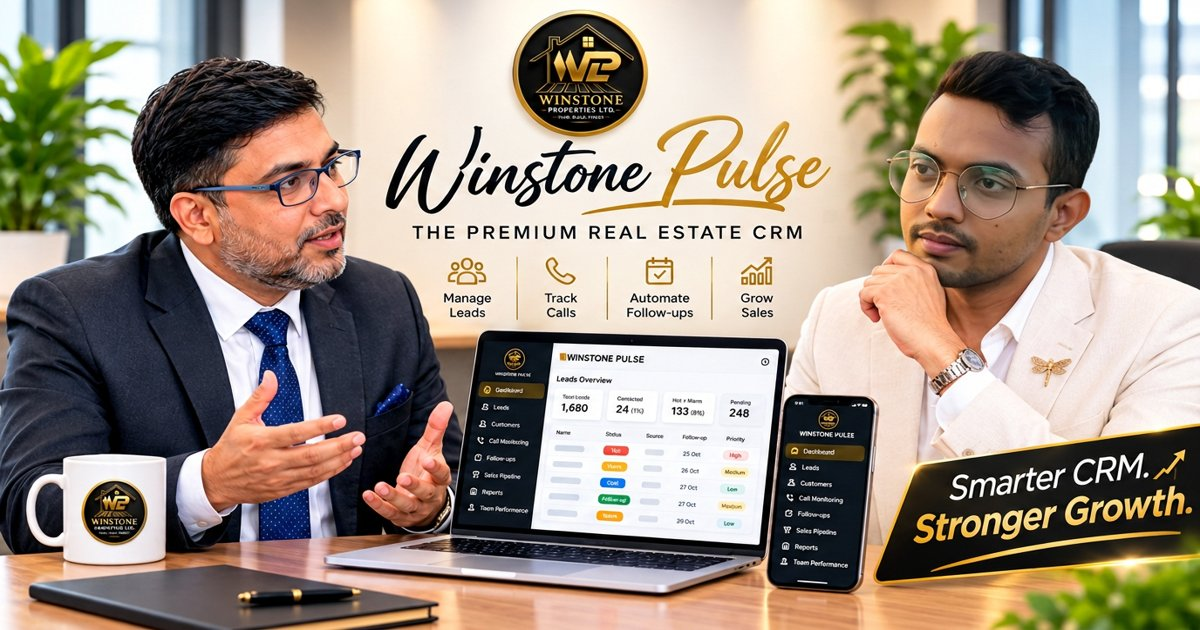
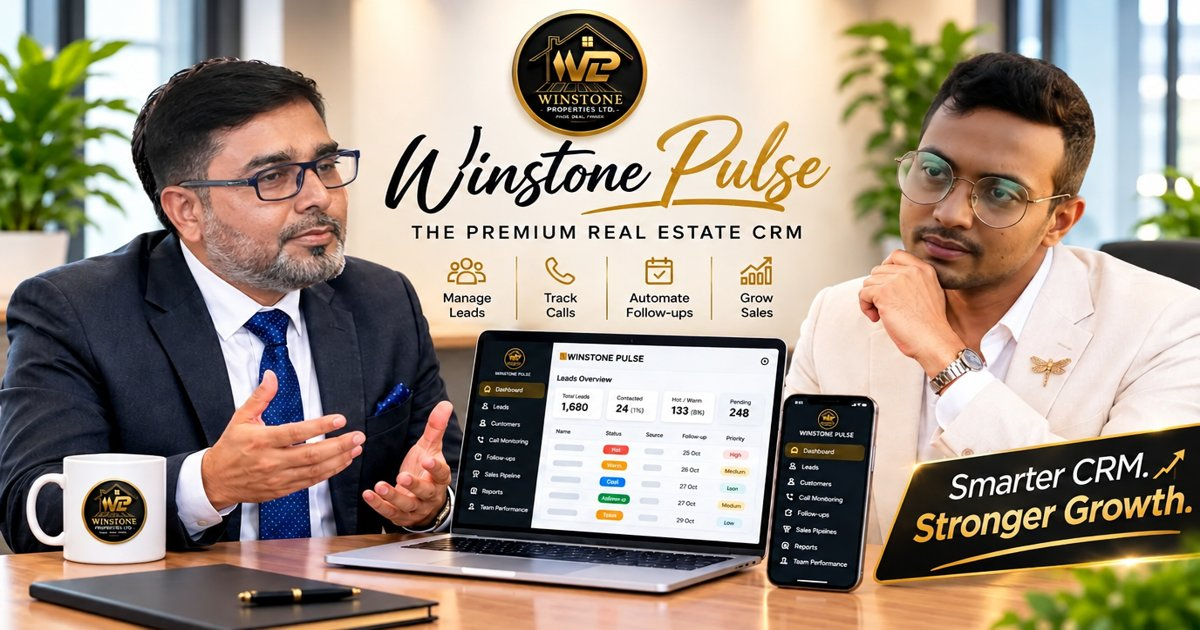
Changes

diff --git a/src/routes/index.tsx b/src/routes/index.tsx
@@ -21,7 +21,7 @@ import logoAsset from "@/assets/winstone-mark.png.asset.json";
 import androidAsset from "@/assets/device-android.webp.asset.json";
 import webAsset from "@/assets/device-web.webp.asset.json";
 import desktopAsset from "@/assets/device-desktop.webp.asset.json";
-import teamHeroAsset from "@/assets/home-team-hero-v2.webp.asset.json";
+import teamHeroAsset from "@/assets/home-team-hero-v3.webp.asset.json";
 import { AdminPinDialog } from "@/components/crm/AdminPinDialog";
 import { Button } from "@/components/ui/button";
 import { useMyAccount } from "@/lib/session";
